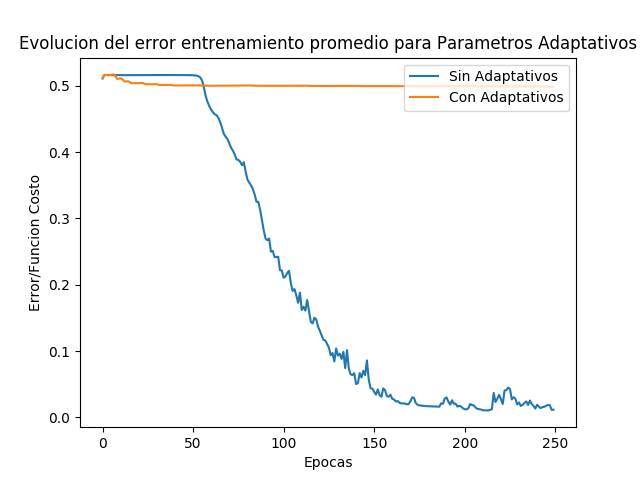
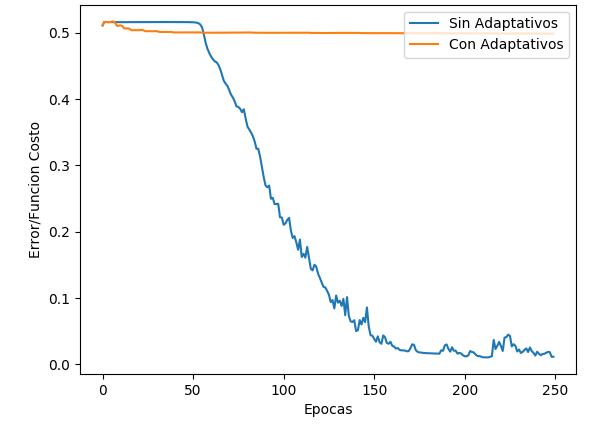
Agrega al informe experimentos de parametros adaptativos del ej1

diff --git a/informe/resultados.tex b/informe/resultados.tex
@@ -110,6 +110,10 @@ pruebas variando el momentum y el learning rate en conjunto, para este experimen
 \end{subfigure}
 \end{figure}
 
+A partir de los resultados podemos intuir que manteniendo el learning rate elegido, no usar momentum o usar momentum $0.05$ o $0.5$ da los mejores resultados. Claramente
+usar $0.9$ es casi como al nuevo peso de cada eje sumarle el peso anterior, por eso la oscilación tan pronunciada. Sin embargo, y para llegar a una conclusión del mejor 
+valor de momentum, analizemos los resultados de la evolución del error para nuestro conjunto de validación:
+
 \begin{figure}[!htbp]
 \centering
 \begin{subfigure}{.5\textwidth}
@@ -142,10 +146,6 @@ pruebas variando el momentum y el learning rate en conjunto, para este experimen
 \end{subfigure}
 \end{figure}
 
-A partir de los resultados podemos intuir que manteniendo el learning rate elegido, no usar momentum o usar momentum $0.05$ o $0.5$ da los mejores resultados. Claramente
-usar $0.9$ es casi como al nuevo peso de cada eje sumarle el peso anterior, por eso la oscilación tan pronunciada. Sin embargo, y para llegar a una conclusión del mejor 
-valor de momentum, analizemos los resultados de la evolución del error para nuestro conjunto de validación:
-
 \begin{figure}[!htbp]
   \begin{center}
   \includegraphics[scale=0.80]{graficos/momentum_promedios_validacion.png}
@@ -157,6 +157,90 @@ Teniendo en cuenta ahora también nuestro error de validación final para todas 
 rate fijo en $0.05$, lo mejor es no usar momentum.
 
 \subsubsection{Performance de la red, con entrenamiento sin y con parámetros adaptativos.}
+
+Utilizar parámetros adaptativos, como variar el learning rate, nos permiten volver a un estado anterior de la red y corregir el learning rate que usamos en 
+ese momento para que esta vez nos de un mejor resultado. Para nuestra configuración adaptativa, si el error crece continuamente reducimos el learning a la mitad, 
+mientras que si el error va en bajada, aumentamos el learning rate en un $10\%$. Manteniendo los parámetros de configuración que venimos utilizando, hicimos experimentos
+sobre entrenamientos estocásticos, batch y mini batch. 
+
+A partir de los resultados de entrenamiento estocástico, podemos observar que usar parámetros adaptativos no solo no ayuda al aprendizaje de la red, sino que
+además lo perjudica en gran magnitud. Esto puede deberse principalmente a que la red esta continuamente ajustando sus pesos en cada entrada del dataset para
+poder con el learning rate actual, mejorar la precisión y reducir el error. Si cambiamos el learning rate los pesos que ajustamos en cada paso dejan de tener
+sentido y el entrenamiento termina dando malos resultados.
+
+\begin{figure}[!htbp]
+\centering
+\begin{subfigure}{.5\textwidth}
+  \centering
+  \includegraphics[width=1\linewidth]{graficos/adaptativos_promedios_entrenamiento.png}
+  \caption{Comparación del error en el conjunto de entrenamiento para estocástico (250 épocas)}
+  \label{fig:sub1}
+\end{subfigure}%
+\begin{subfigure}{.5\textwidth}
+  \centering
+  \includegraphics[width=1\linewidth]{graficos/adaptativos_promedios_validacion.png}
+  \caption{Comparación del error en el conjunto de validación para estocástico (250 épocas)}
+  \label{fig:sub2}
+\end{subfigure}
+\end{figure}
+
+Con respecto a batch, nos dimos cuenta que los parámetros adaptativos permiten que se obtengan muy buenos resultados. Incluso se puede ver que el error de 
+validación llega a ser menor que en el entrenamiento estocástico. Sin embargo, tuvimos que utilizar el doble de épocas para conseguir los mismos. 
+
+\begin{figure}[!htbp]
+\centering
+\begin{subfigure}{.5\textwidth}
+  \centering
+  \includegraphics[width=1\linewidth]{graficos/adaptativos_promedios_entrenamiento_batch_05.png}
+  \caption{Comparación del error en el conjunto de entrenamiento para batch (250 épocas)}
+  \label{fig:sub1}
+\end{subfigure}%
+\begin{subfigure}{.5\textwidth}
+  \centering
+  \includegraphics[width=1\linewidth]{graficos/adaptativos_promedios_validacion_batch_05.png}
+  \caption{Comparación del error en el conjunto de validación para batch (250 épocas)}
+  \label{fig:sub2}
+\end{subfigure}
+\end{figure}
+
+\begin{figure}[!htbp]
+\centering
+\begin{subfigure}{.5\textwidth}
+  \centering
+  \includegraphics[width=1\linewidth]{graficos/adaptativos_promedios_entrenamiento_batch_500ep.png}
+  \caption{Comparación del error en el conjunto de entrenamiento para batch (500 épocas)}
+  \label{fig:sub1}
+\end{subfigure}%
+\begin{subfigure}{.5\textwidth}
+  \centering
+  \includegraphics[width=1\linewidth]{graficos/adaptativos_promedios_validacion_batch_500ep.png}
+  \caption{Comparación del error en el conjunto de validación para batch (500 épocas)}
+  \label{fig:sub2}
+\end{subfigure}
+\end{figure}
+
+Para el entrenamiento mini batch, confirma la idea de que el learning rate adaptativo es útil solo en batch y no para estocástico. Realizamos un par de
+pruebas y vimos que mientras más cerca de 1 (estocástico) estuviese el tamaño del batch, peor resultados da el adaptivo, mientras que si más cerca está del
+tamaño total del dataset de entrenamiento, mejor funciona el learning rate adaptativo. 
+
+\begin{figure}[!htbp]
+\centering
+\begin{subfigure}{.5\textwidth}
+  \centering
+  \includegraphics[width=1\linewidth]{graficos/adaptativos_promedios_entrenamiento_batch.png}
+  \caption{Comparación del error en el conjunto de entrenamiento para mini batch de 10, cercano a ser estocástico (500 épocas)}
+  \label{fig:sub1}
+\end{subfigure}%
+\begin{subfigure}{.5\textwidth}
+  \centering
+  \includegraphics[width=1\linewidth]{graficos/adaptativos_promedios_validacion_batch.png}
+  \caption{Comparación del error en el conjunto de validación para batch de 10, cercano a ser estocástico (500 épocas)}
+  \label{fig:sub2}
+\end{subfigure}
+\end{figure}
+
+Nuestra conclusión para este experimento es que si bien se llegan a alcanzar buenos resultados con el entrenamiento batch, es necesario utilizar el doble de épocas
+lo cual hace que tarde mucho más el entrenamiento. Online learning en la mitad de las épocas y sin learning rate adaptativo obtiene resultados similares.
 
 \subsubsection{Performance de la red, con entrenamiento estocástico, batch y mini-batch.}
 
